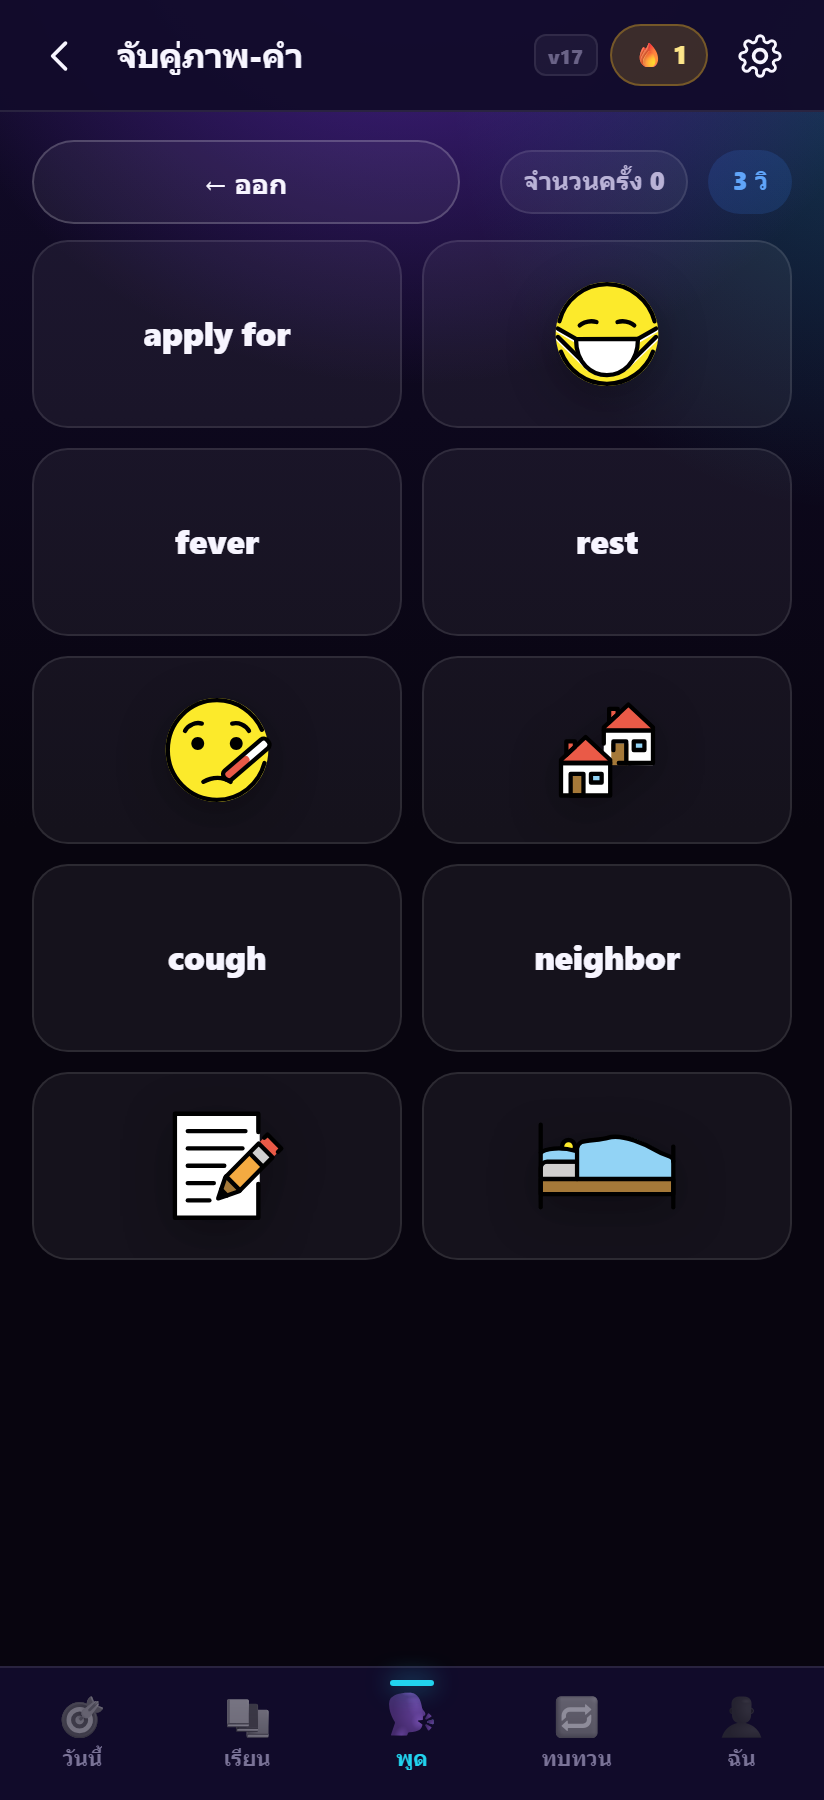
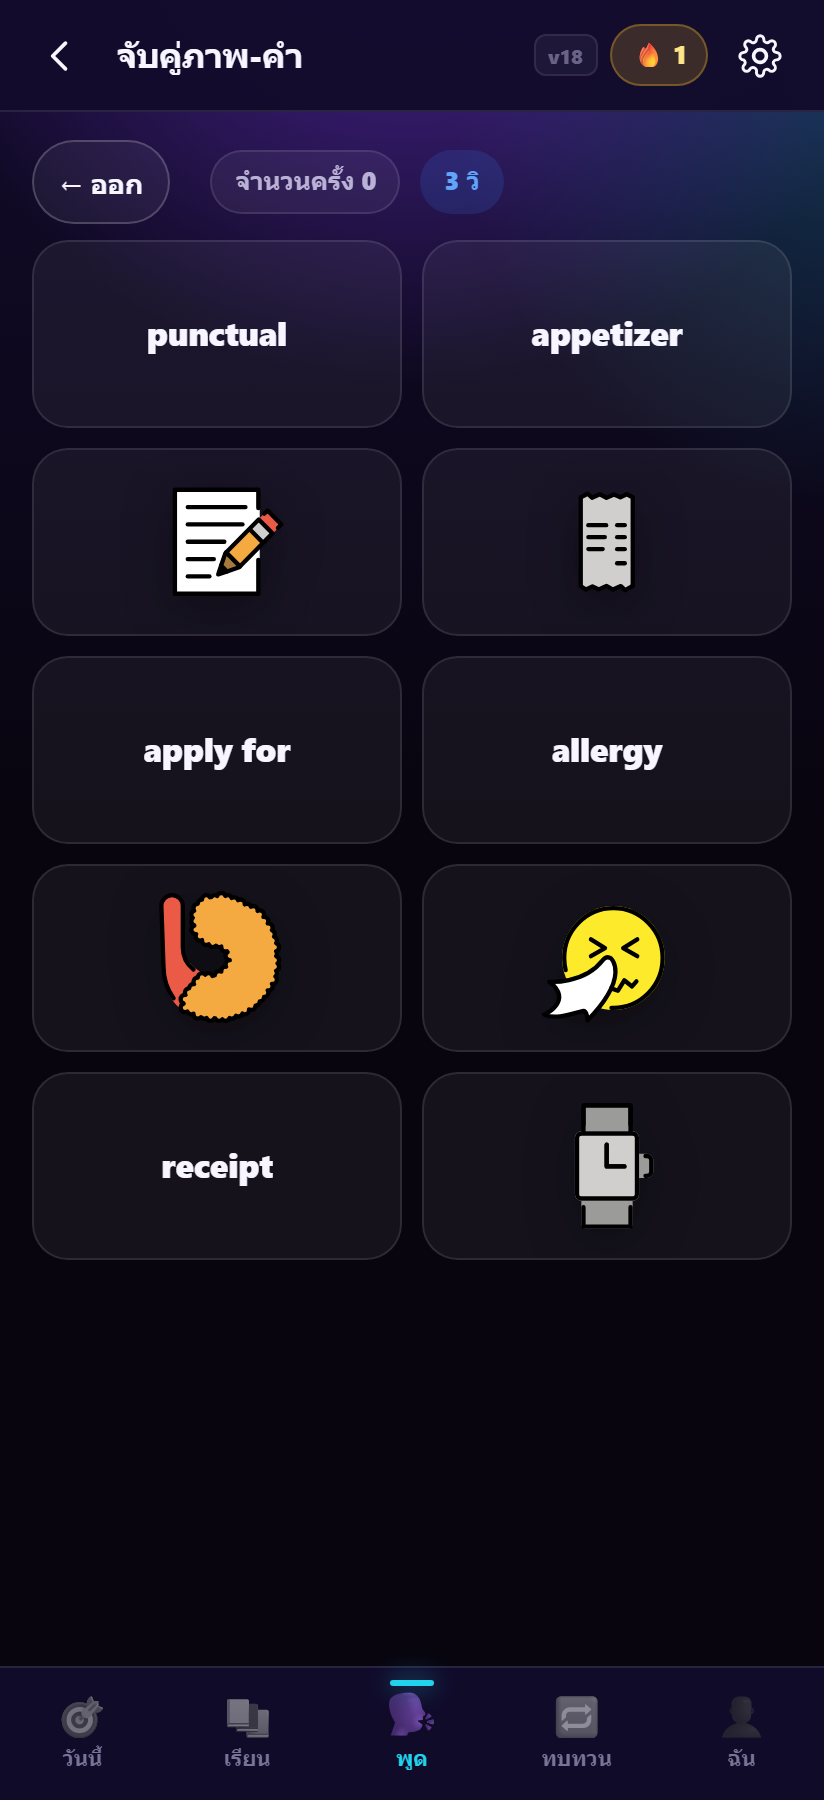
style: keep small buttons compact beside block buttons (v18)

diff --git a/css/style.css b/css/style.css
@@ -263,7 +263,7 @@ h1, .h1 { font-size: var(--fs-display); font-weight: 800; letter-spacing: -.02em
 
 .row { display: flex; gap: 10px; align-items: center; min-width: 0; }
 .row > * { flex: 1; min-width: 0; }
-.row > .spacer, .row > .chip-streak, .row > .xp-chip, .row > .icon-btn, .row > .pill, .row > span { flex: 0 0 auto; }
+.row > .spacer, .row > .chip-streak, .row > .xp-chip, .row > .icon-btn, .row > .pill, .row > span, .row > .btn-sm:not(.btn-block) { flex: 0 0 auto; }
 /* ปุ่มแบบ block ที่อยู่คู่กันต้องหดได้ ไม่งั้นดันจอล้น (บั๊กที่เจอ) */.n.row > .btn-block { width: auto; flex: 1 1 0; min-width: 0; }
 .row-wrap { flex-wrap: wrap; }
 .spacer { flex: 1; }

diff --git a/js/version.js b/js/version.js
@@ -4,5 +4,5 @@
  * กติกา: ทุกครั้งที่แก้ไฟล์ที่แอปโหลด ให้เพิ่มเลขนี้ + ใน sw.js ให้ตรงกัน
  * (scripts/check_imports.mjs จะฟ้องถ้าไม่ตรง)
  */
-export const VERSION = 'v17';
+export const VERSION = 'v18';
 export const BUILD_DATE = '2026-10-17';

diff --git a/sw.js b/sw.js
@@ -1,5 +1,5 @@
 /* PicEnglish service worker — offline-first สำหรับตัวแอป + cache ภาพถ่ายจากคลังฟรี */
-const VERSION = 'v17';
+const VERSION = 'v18';
 const SHELL_CACHE = `picenglish-shell-${VERSION}`;
 const PHOTO_CACHE = `picenglish-photos-${VERSION}`;
 
